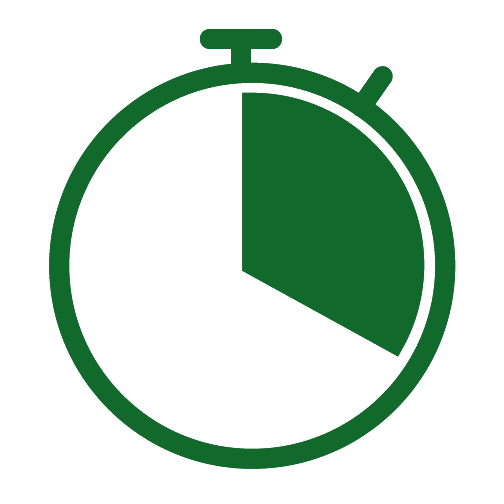
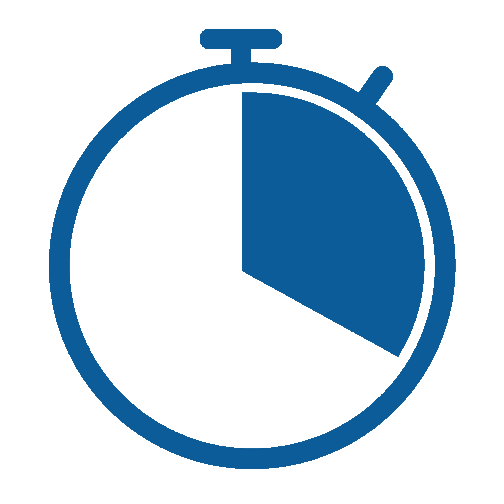
Style

Changed region(s): [[0.0893, 0.0595, 0.9226, 0.9524]]

diff --git a/popup/popup.html b/popup/popup.html
@@ -8,9 +8,9 @@
 
         <!--form-->
         <form id="form">
-            Hours:<br> <input id="hour" type="text" placeholder="0" autocomplete="off"><br>
-            Minutes:<br> <input id="minute" type="text" placeholder="0" autocomplete="off"><br>
-            Seconds:<br> <input id="second" type="text" placeholder="0" autocomplete="off"><br>
+            hours:<br> <input id="hour" type="text" placeholder="0" autocomplete="off"><br>
+            minutes:<br> <input id="minute" type="text" placeholder="0" autocomplete="off"><br>
+            seconds:<br> <input id="second" type="text" placeholder="0" autocomplete="off"><br>
         </form>
 
         <h3 id="alert">Please enter a valid time.</h3>
@@ -18,9 +18,9 @@
         <h2 id="display">0h 0m 0s</h2>
 
         <!--Buttons-->
-        <button id="b1" type="button">start</button>
-        <button id="b2" type="button">cancel</button>
-        <button id="b3" type="button">okay</button>
+        <button id="b1">start</button>
+        <button id="b2">cancel</button>
+        <button id="b3">okay</button>
 
         <!--scripts-->
         <script src='https://code.jquery.com/jquery-3.1.0.min.js'></script>

diff --git a/popup/styles.css b/popup/styles.css
@@ -1,9 +1,7 @@
 body{
-	color: #0D9454;
-	font: 1rem Courier New, sans-serif;
-	background: #F9F6E8;
-	font-weight: bold;
-	clear: both;
+	color: #2456a5;
+	font: bold 16px Courier New, sans-serif;
+	background: #e8e9ea;
     display: inline-block;
     overflow: hidden;
     white-space: nowrap;
@@ -13,45 +11,30 @@ body{
 h1{
 	position: relative;
 	text-align: center;
-	padding: 15px 20px;
-	font: bold 1.5rem Courier, sans-serif;
+	padding: 1rem;
+	border-radius: 1rem;
+	font: bold 1.5rem Courier New, sans-serif;
 	margin: 0;
-	background-color: #D0FBE7;
-}
-
-ul{
-	position: relative;
-	text-decoration: none;
-
-}
-
-p {
-	position: relative;
-	line-height: 1.2rem;
+	background: #ccddf9;
 }
 
 h2{
 	font-size: 1.1rem;
-	bottom: 10;
 }
 
 h3{
 	font-size: 0.8rem;
-	bottom: 0;
-	padding: 0;
-	margin: 0;
 }
 
-a{
-	color: #0D9454;
+input {
+	border-radius: 0.4rem;
+	border: 0;
 }
 
-hr {
-    display: block;
-    height: 2px;
+button {
+	font: bold 0.8rem Courier New, sans-serif;
+	border-radius: 0.4rem;
+    color: #2456a5;
     border: 0;
-    border-top: 1px solid #ccc;
-    margin: 1em 0;
-    padding: 0;
-    color: #0D9454;
+    padding-top: 0.2rem;
 }
